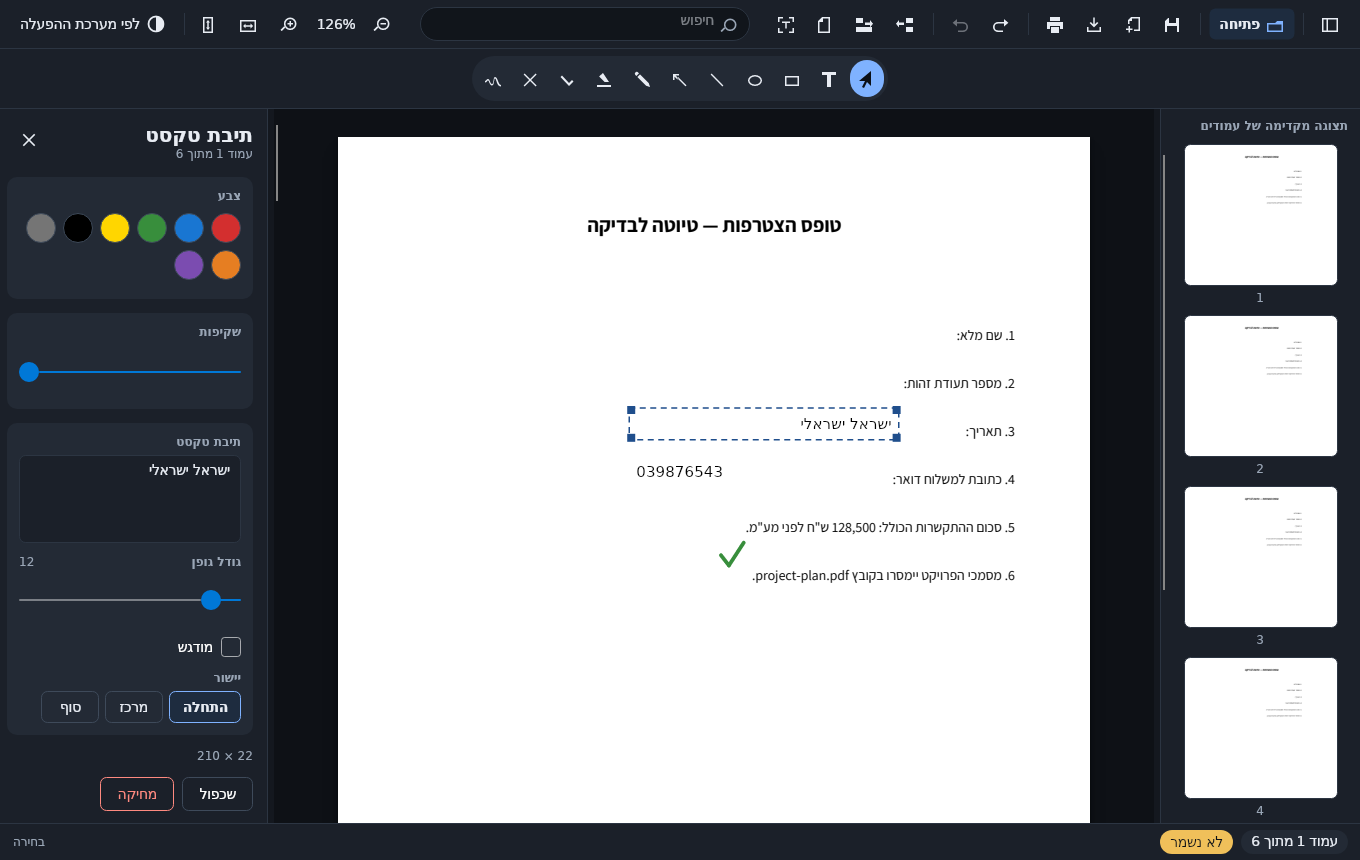
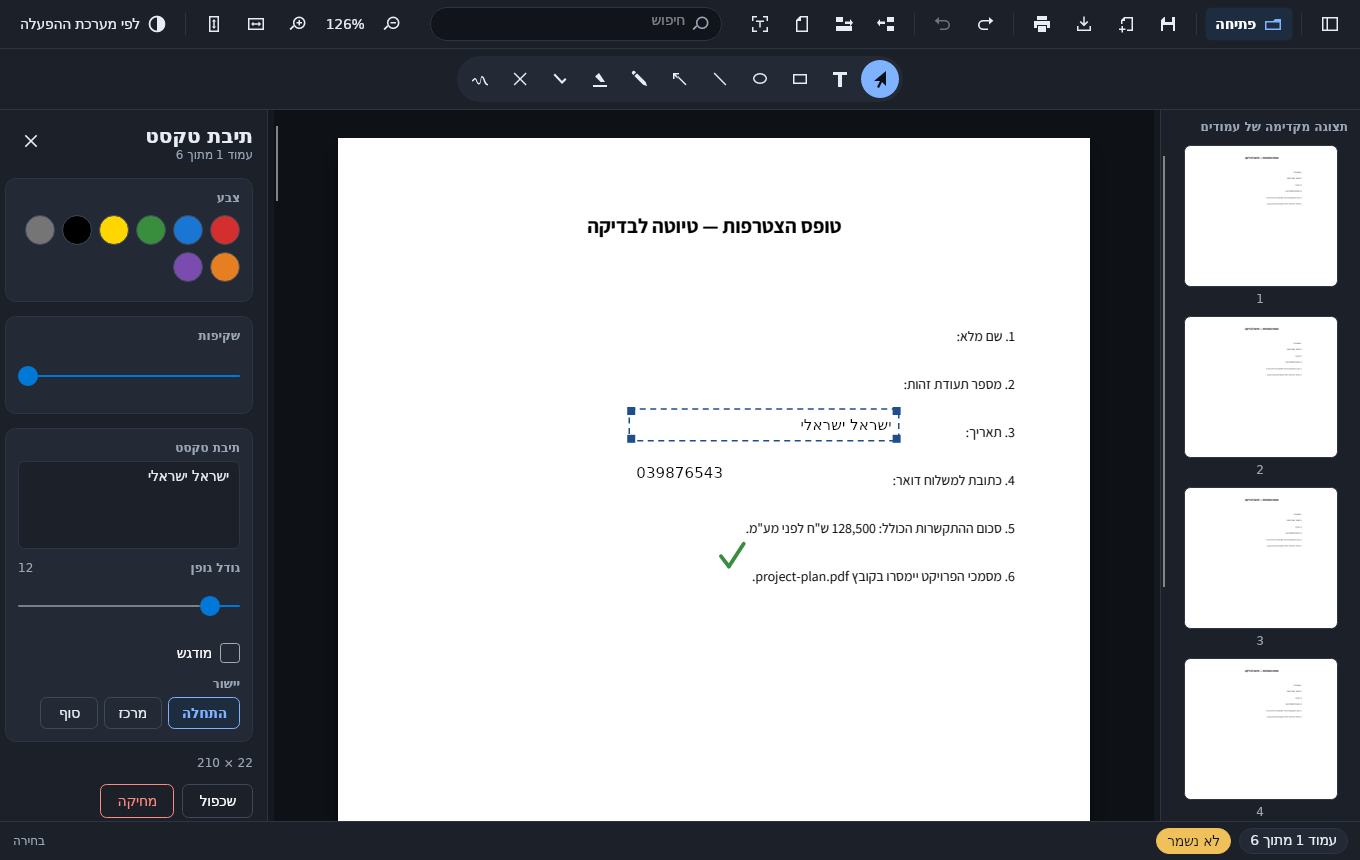
Stop drawing on the page in colours chosen for the chrome
Selection handles and the dashed outline took their colour from AccentColor,
which is a chrome token. The page is white paper in both themes, so in the dark
theme the handles were drawn in #7FB2FF — 2.16:1 against paper, all but
invisible on the very surface they exist to mark. Ink laid over the page now
comes from PageAccentColor and PageGuideColor, which sit outside the theme
dictionaries because the page does not have a theme: 8.31:1 and 3.78:1.

Three smaller things found the same way, by looking at what was rendered.
An implicit Foreground setter on TextBlock beat inheritance, so a label written
as an explicit TextBlock inside a button that recolours its content kept the
body colour while the icon beside it followed the button — the Open button's
text and icon disagreed in the dark theme. The Window already seeds
TextElement.Foreground, so removing the setter leaves unclassed text where it
was. Icons are drawn on a twenty unit grid but an unsized Path measures to its
own strokes, so the check mark came out smaller than the cross beside it. And
Border.group and Border.pill were carried by a fill measuring 1.13:1 against
the surface behind them, which is below where an edge reads at all; both now
have a hairline.

Sizing every icon to its grid made the command bar wider, and at the documented
680 minimum it began clipping the theme button. Export and print now step aside
at that width along with the document operations. Both keep their shortcuts and
[…]

diff --git a/src/PdfEditor.App/Controls/AnnotationOverlay.cs b/src/PdfEditor.App/Controls/AnnotationOverlay.cs
@@ -53,9 +53,13 @@ internal static class AnnotationOverlay
     private static Pen Stroke(AnnotationColor c, double width) =>
         new(Brush(c), Math.Max(0.5, width)) { LineCap = PenLineCap.Round, LineJoin = PenLineJoin.Round };
 
-    /// <summary>Editor-only hint marking an empty text field. Never written to the PDF.</summary>
+    /// <summary>
+    /// Editor-only hint marking an empty text field. Never written to the PDF, and deliberately a
+    /// fixed colour rather than a theme one: it is drawn on the page, which is white paper in both
+    /// themes, so a chrome colour picked against a dark panel would be the wrong one here.
+    /// </summary>
     private static Pen EmptyFieldGuide(double scale) =>
-        new(new SolidColorBrush(AvaloniaColor.FromArgb(110, 122, 132, 148)), Math.Max(1, scale))
+        new(new SolidColorBrush(AvaloniaColor.FromArgb(150, 122, 132, 148)), Math.Max(1, scale))
         {
             DashStyle = new DashStyle([4, 3], 0)
         };

diff --git a/src/PdfEditor.App/Controls/PageSurface.cs b/src/PdfEditor.App/Controls/PageSurface.cs
@@ -265,7 +265,11 @@ public sealed class PageSurface : Control
     private void DrawSelection(DrawingContext context, Annotation annotation)
     {
         var rect = ToScreen(annotation.Rect);
-        var accent = this.FindResource("AccentColor") is AvaloniaColor color
+        // PageAccentColor, not the chrome accent: this is drawn on the page, which is white paper
+        // in both themes. The dark theme's accent is picked to carry against a dark panel and
+        // measures 2.16:1 against paper, so selection would all but vanish on the very surface it
+        // is meant to mark.
+        var accent = this.FindResource("PageAccentColor") is AvaloniaColor color
             ? color
             : AvaloniaColor.FromRgb(31, 78, 140);
 
